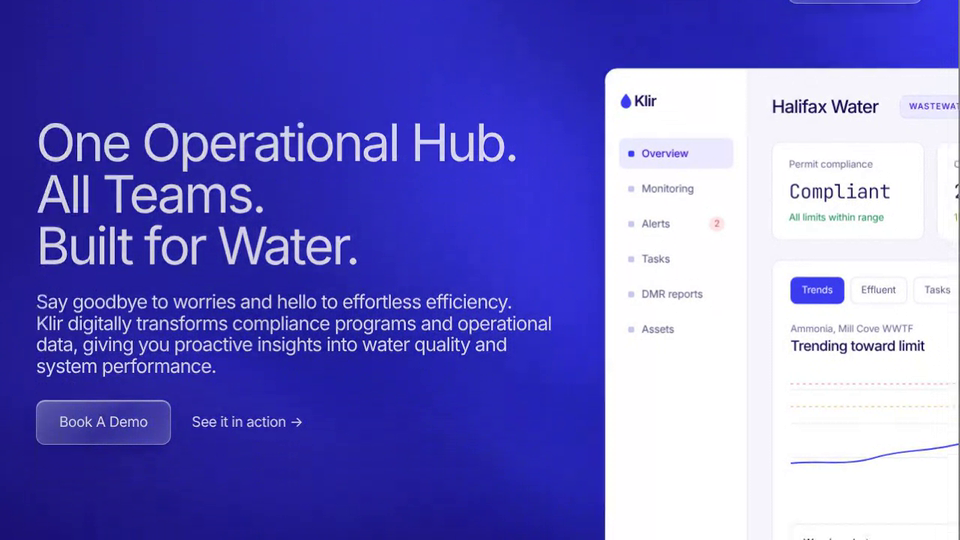
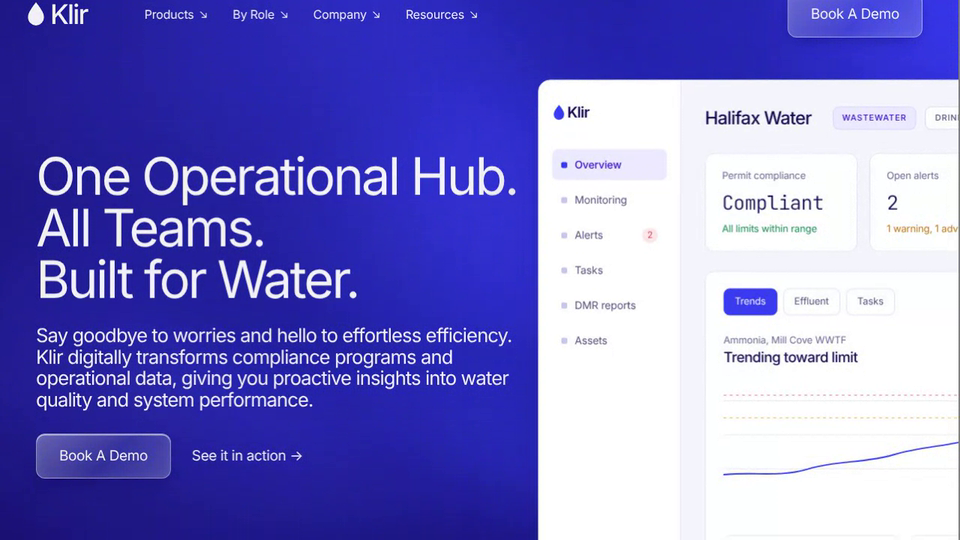
Klir side reveal: dashboard rests further left, more space before the customers section
Claude-Session: https://claude.ai/code/session_01AHeBdyKiiUaJC1VuNiJRth

diff --git a/klir-landing-page-side-reveal/index.html b/klir-landing-page-side-reveal/index.html
@@ -28,7 +28,7 @@ header.site{position:absolute;top:0;left:0;right:0;z-index:3;display:flex;align-
 .logo{text-decoration:none;display:flex;align-items:center;gap:6px;font-weight:500;font-size:36px;letter-spacing:-.05em;color:#fff}
 header.site .links{display:flex;gap:34px;font-size:16px;margin-right:auto;margin-left:40px;letter-spacing:-.01em}
 .hero h1{color:#fff;font-weight:300;font-size:clamp(38px,5.4vw,78px);line-height:1;letter-spacing:-.045em;max-width:12em;white-space:nowrap}
-.hero .sub{font-size:clamp(19px,2vw,27px);line-height:1.12;letter-spacing:-.035em;max-width:27em;margin-top:26px}
+.hero .sub{font-size:clamp(19px,2vw,27px);line-height:1.12;letter-spacing:-.035em;max-width:min(27em,50vw);margin-top:26px}
 .hero .cta{margin-top:30px;align-items:center;gap:28px}
 .btn{display:inline-block;background:var(--blue);color:#fff;text-decoration:none;font-weight:400;font-size:19px;letter-spacing:-.02em;padding:15px 30px;border-radius:6px;transition:background .2s}
 .btn:hover{background:var(--indigo)}
@@ -98,7 +98,7 @@ footer p{font-size:clamp(18px,1.8vw,22px);letter-spacing:-.02em;max-width:30em;m
 .fbtn{background:#fff;color:var(--navy);text-decoration:none;font-size:19px;letter-spacing:-.02em;padding:17px 32px;border-radius:6px}
 .fbtn:hover{background:var(--lav)}
 .flink{color:#fff;font-size:19px;letter-spacing:-.02em;text-decoration:underline;text-underline-offset:5px}
-.uiwrap{position:relative;z-index:4;margin:-24px auto -120px;width:min(1120px,calc(100% - 160px));will-change:transform}
+.uiwrap{position:relative;z-index:4;margin:-24px auto -10px;width:min(1120px,calc(100% - 160px));will-change:transform}
 .app{display:grid;grid-template-columns:190px 1fr;background:#f6f7fd;border:1px solid #deddf3;border-radius:16px;box-shadow:0 50px 110px -30px rgba(23,9,79,.45);overflow:hidden;font-size:14px;letter-spacing:-.01em;color:var(--navy)}
 .app aside{background:#fff;border-right:1px solid #e6e5f6;padding:28px 18px}
 .brand{display:flex;gap:2px;align-items:center;font-weight:600;font-size:20px;letter-spacing:-.04em;margin-bottom:34px}
@@ -331,7 +331,7 @@ function layout(){
   nodes=[...document.querySelectorAll('.eyebrow.node')].map(e=>{const r=e.getBoundingClientRect();return{y:r.top-m.top+r.height/2,el:e}});
   $('nodes').innerHTML=nodes.map((n,i)=>`<g id="n${i}" opacity="0" style="transition:opacity .35s"><use href="#drop" transform="translate(${X} ${n.y+1}) scale(1.1)" fill="#fafbff" stroke="#fafbff" stroke-width="7" stroke-linejoin="round"/><use href="#drop" transform="translate(${X} ${n.y+1}) scale(1.1)" fill="#fff" stroke="#3b3bef" stroke-width="1.7"/></g>`).join('');
   LT=Math.max(HB,(nodes[0]?nodes[0].y:HB)-60);$('solid').setAttribute('y1',LT);$('solid').setAttribute('y2',H);const fg=$('fade');fg.setAttribute('y1',LT);fg.setAttribute('y2',H);
-  {const u=$('ui'),vw=wrap.clientWidth,sm=vw<=820;UN=wrap.offsetTop+u.offsetTop;SY=49+HB*(sm?.3:.17);EY=Math.max(sm?70:90,innerHeight*.125);TX0=vw-(sm?.3:.4)*u.offsetWidth-u.offsetLeft;BH=Math.max(EY+u.offsetHeight-90,innerHeight)}
+  {const u=$('ui'),vw=wrap.clientWidth,sm=vw<=820;UN=wrap.offsetTop+u.offsetTop;SY=49+HB*(sm?.3:.17);EY=Math.max(sm?70:90,innerHeight*.125);TX0=vw-(sm?.3:.5)*u.offsetWidth-u.offsetLeft;BH=Math.max(EY+u.offsetHeight-90,innerHeight)}
   tick();
 }
 function tick(){
